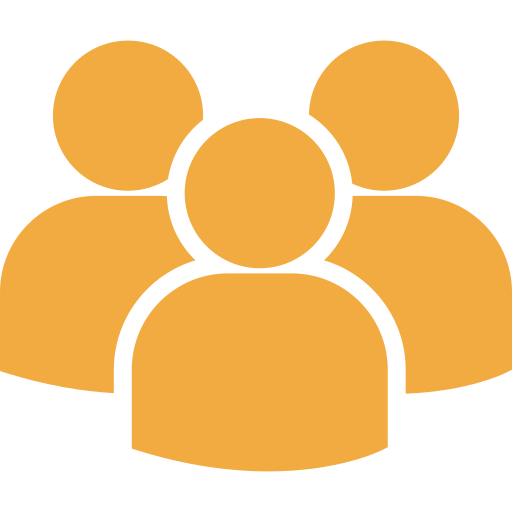
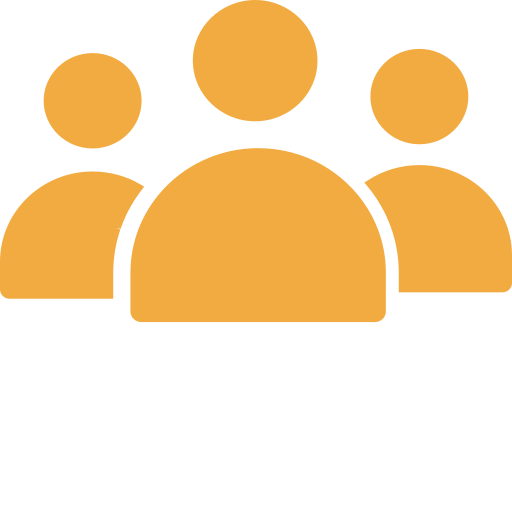
navbar update

diff --git a/Frontend/src/components/Navbar.jsx b/Frontend/src/components/Navbar.jsx
@@ -43,7 +43,7 @@ function Navbar() {
           <img
             src={currentPath.startsWith('/groupfinder') ? '/GroupON.png' : '/GroupOFF.png'}
             alt="Groups"
-            className="w-6 h-6 mb-1"
+            className="w-8 h-8 -mb-1 object-contain"
           />
           <span className={`text-xs ${currentPath.startsWith('/groupfinder') ? 'text-white' : 'text-gray-400'}`}>
             Groups
